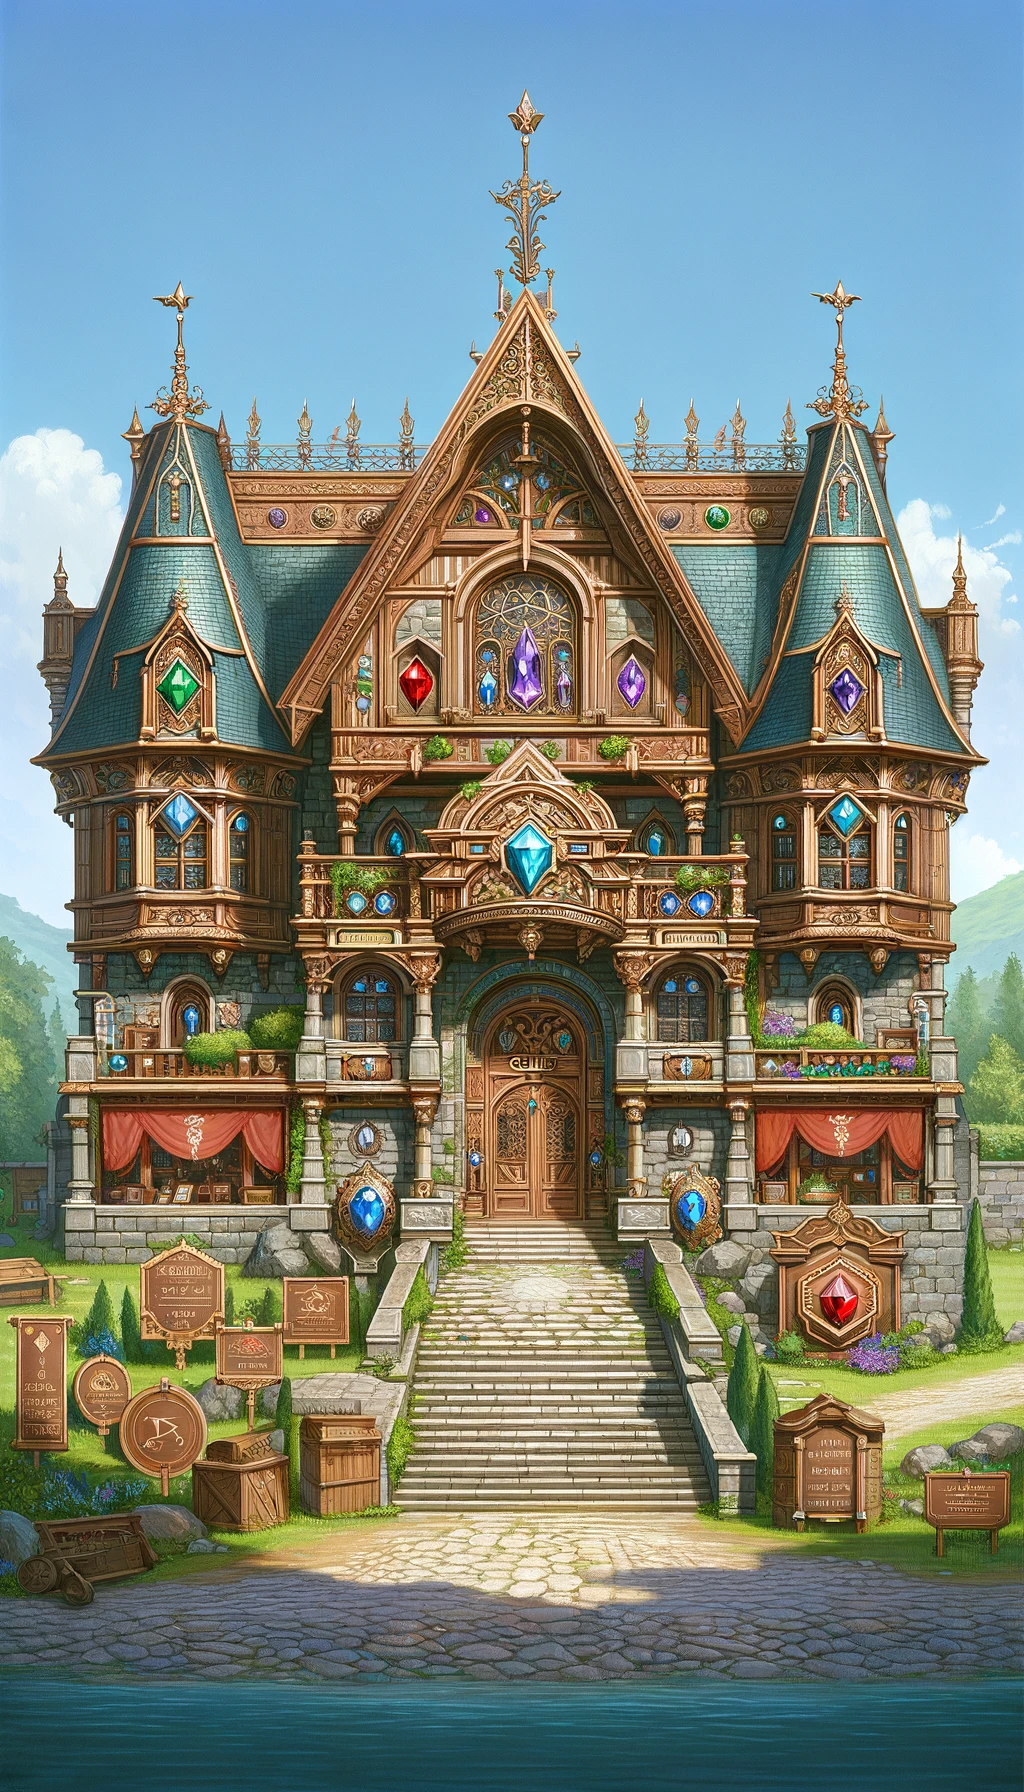
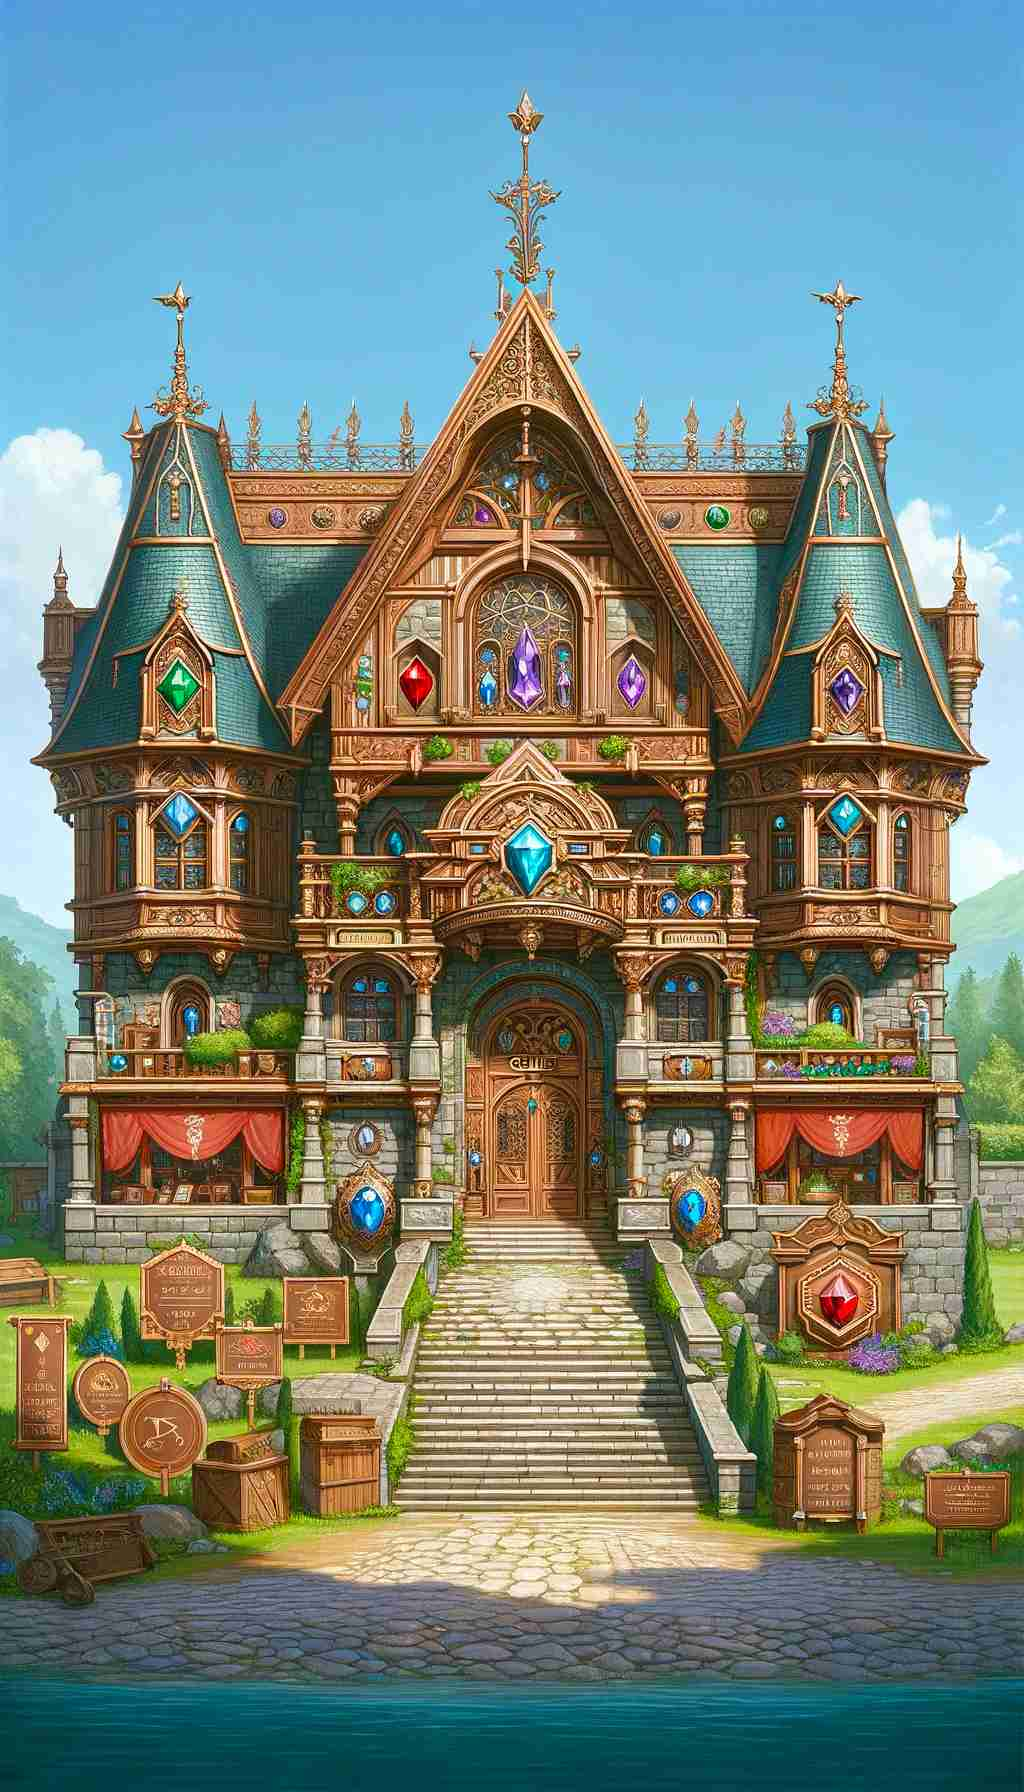
fix: fix image height + compress images

Changed region(s): [[0.0, 0.0312, 1.0, 0.9062], [0.0, 0.9375, 1.0, 1.0], [0.0312, 0.3125, 0.0625, 0.3438]]

diff --git a/client/src/components/cityview/realm/labor/LaborBuild.tsx b/client/src/components/cityview/realm/labor/LaborBuild.tsx
@@ -318,7 +318,7 @@ export const LaborBuildPopup = ({ resourceId, setBuildLoadingStates, onClose }: 
           <div className="mr-0.5">Build Labor:</div>
         </div>
       </SecondaryPopup.Head>
-      <SecondaryPopup.Body withWrapper width={"376px"} height={"476px"}>
+      <SecondaryPopup.Body withWrapper width={"376px"}>
         <div className="flex flex-col items-center p-2">
           <Headline>Produce More {resourceInfo?.trait}</Headline>
           <div className="relative flex justify-between w-full mt-1 text-xs text-lightest">
@@ -384,18 +384,18 @@ export const LaborBuildPopup = ({ resourceId, setBuildLoadingStates, onClose }: 
           )}
           <div className={clsx("relative w-full", isFood ? "mt-2" : "mt-2")}>
             {resourceId === 254 && (
-              <img src={`/images/buildings/farm.png`} className="object-cover w-full h-full rounded-[10px]" />
+              <img src={`/images/buildings/farm.png`} className="object-cover w-full h-full rounded-[10px] h-[340px]" />
             )}
             {resourceId === 255 && (
               <img
                 src={`/images/buildings/fishing_village.png`}
-                className="object-cover w-full h-full rounded-[10px]"
+                className="object-cover w-full h-full rounded-[10px] h-[340px]"
               />
             )}
             {!isFood && (
               <img
                 src={`/images/resource_buildings/${resourceId}.png`}
-                className="object-cover w-full h-full rounded-[10px]"
+                className="object-cover w-full h-full rounded-[10px] h-[340px]"
               />
             )}
             <div className="absolute top-2 left-2 bg-black/90 rounded-[10px] p-3 pb-6 hover:bg-black">

diff --git a/client/src/elements/TimeoutImage.tsx b/client/src/elements/TimeoutImage.tsx
@@ -1,0 +1,63 @@
+import React, { useEffect, useState } from "react";
+
+export type TimeoutImageProps = {
+  image: string;
+  alt?: string;
+  imageStyleClass?: string;
+  divStyleClass?: string;
+  bgColor?: string;
+};
+
+const TimeoutImage = ({
+  image,
+  alt = "",
+  imageStyleClass = "",
+  divStyleClass = "",
+  bgColor = "transparent",
+}: TimeoutImageProps) => {
+  const [currentImage, setCurrentImage] = useState<string | null>(null);
+  const [loading, setLoading] = useState(true);
+
+  const fetchImage = (src: string) => {
+    const loadingImage = new Image();
+    loadingImage.src = src;
+    loadingImage.onload = () => {
+      setTimeout(() => {
+        setCurrentImage(loadingImage.src);
+        setLoading(false);
+      }, 2000);
+    };
+  };
+
+  useEffect(() => {
+    fetchImage(image);
+  }, []);
+
+  return (
+    <div className={divStyleClass} style={{ overflow: "hidden" }}>
+      {currentImage && (
+        <img
+          style={{
+            width: "100%",
+            background: bgColor,
+          }}
+          src={currentImage}
+          alt={alt}
+          className={imageStyleClass}
+        />
+      )}
+      {!currentImage && (
+        <img
+          style={{
+            width: "100%",
+            background: bgColor,
+          }}
+          alt={alt}
+          className={imageStyleClass}
+        />
+      )}
+    </div>
+  );
+};
+
+export default TimeoutImage;

diff --git a/client/src/components/cityview/realm/buildings/labor/LaborBuilding.tsx b/client/src/components/cityview/realm/buildings/labor/LaborBuilding.tsx
@@ -62,10 +62,12 @@ export const LaborBuilding = ({
 
   return (
     <div className={clsx("flex flex-1 w-full", props.className)}>
-      <img
-        src={`/images/buildings/${Guilds[guild - 1]?.toLowerCase()}-building.png`}
-        className="object-cover rounded-md w-[107px] h-[230px]"
-      />
+      <div className="w-[160px] h-[230px] overflow-hidden">
+        <img
+          src={`/images/buildings/${Guilds[guild - 1]?.toLowerCase()}-building.png`}
+          className="object-cover rounded-md w-[107px] h-[230px]"
+        />
+      </div>
       <div className="flex flex-col w-full min-w-[244px] h-full ml-2">
         <div className="flex flex-row mb-2 justify-between">
           <div className="flex flex-row">

diff --git a/client/src/components/cityview/realm/combat/HealPopup.tsx b/client/src/components/cityview/realm/combat/HealPopup.tsx
@@ -74,7 +74,7 @@ export const HealPopup = ({ selectedRaider, onClose }: HealPopupProps) => {
         <div className="flex flex-col items-center p-2">
           <Headline>Heal Units</Headline>
           <div className={"relative w-full mt-3"}>
-            <img src={`/images/units/troop-heal.png`} className="object-cover w-full h-full rounded-[10px]" />
+            <img src={`/images/units/troop-heal.png`} className="object-cover w-full h-full rounded-[10px] h-[340px]" />
             <div className="flex flex-col p-2 absolute left-2 bottom-2 rounded-[10px] bg-black/60">
               <div className="mb-1 ml-1 italic text-light-pink text-xxs">Price:</div>
               <div className="grid grid-cols-4 gap-2">

diff --git a/client/src/components/cityview/realm/combat/raids/CreateRaidersPopup.tsx b/client/src/components/cityview/realm/combat/raids/CreateRaidersPopup.tsx
@@ -130,7 +130,7 @@ export const CreateRaidersPopup = ({ onClose }: CreateRaidersPopupProps) => {
             <div className="flex items-center">{totalHealth} HP</div>
           </div>
           <div className={"relative w-full mt-3"}>
-            <img src={`/images/units/troop.png`} className="object-cover w-full h-full rounded-[10px]" />
+            <img src={`/images/units/troop.png`} className="object-cover w-full h-[340px] rounded-[10px]" />
             <div className="flex absolute flex-col p-2 left-2 bottom-2 rounded-[10px] bg-black/60">
               <div className="mb-1 ml-1 italic text-light-pink text-xxs">Price:</div>
               <div className="grid grid-cols-4 gap-2">

diff --git a/client/src/components/cityview/realm/combat/raids/MergeNewSoldiersPanel.tsx b/client/src/components/cityview/realm/combat/raids/MergeNewSoldiersPanel.tsx
@@ -138,7 +138,7 @@ export const MergeNewSoldiersPanel = ({ isDefence, selectedRaider, onClose }: Me
           <div className="flex items-center">{totalHealth} HP</div>
         </div>
         <div className={"relative w-full mt-3"}>
-          <img src={`/images/units/troop.png`} className="object-cover w-full h-full rounded-[10px]" />
+          <img src={`/images/units/troop.png`} className="object-cover w-full h-full h-[340px] rounded-[10px]" />
           <div className="flex absolute flex-col p-2 left-2 bottom-2 rounded-[10px] bg-black/60">
             <div className="mb-1 ml-1 italic text-light-pink text-xxs">Price:</div>
             <div className="grid grid-cols-4 gap-2">

diff --git a/client/src/components/cityview/realm/leveling/LevelingPopup.tsx b/client/src/components/cityview/realm/leveling/LevelingPopup.tsx
@@ -96,7 +96,7 @@ export const LevelingPopup = ({ onClose }: LevelingPopupProps) => {
           <div className={"relative w-full mt-3"}>
             <img
               src={`/images/levels/tier${newLevel > 3 ? 3 : newLevel}.png`}
-              className="object-cover w-full h-full rounded-[10px]"
+              className="object-cover w-full h-full rounded-[10px] h-[340px]"
             />
             <div className="flex flex-col p-2 absolute left-2 bottom-2 right-2 rounded-[10px] bg-black/90">
               <div className="mb-1 ml-1 italic text-light-pink text-xxs">Price:</div>

diff --git a/client/src/components/cityview/realm/buildings/labor/LaborResourceBuildPopup.tsx b/client/src/components/cityview/realm/buildings/labor/LaborResourceBuildPopup.tsx
@@ -289,7 +289,7 @@ export const LaborResourceBuildPopup = ({ guild, resourceId, onClose }: LaborRes
           <div className={clsx("relative w-full", isFood ? "mt-2" : "mt-2")}>
             <img
               src={`/images/units/${Guilds[guild - 1]?.toLowerCase()}.png`}
-              className="object-cover w-full h-full rounded-[10px]"
+              className="object-cover w-full h-full rounded-[10px] h-[340px]"
             />
             <div className="absolute top-2 left-2 bg-black/90 rounded-[10px] p-3 pb-6 hover:bg-black">
               <LaborAuction />
